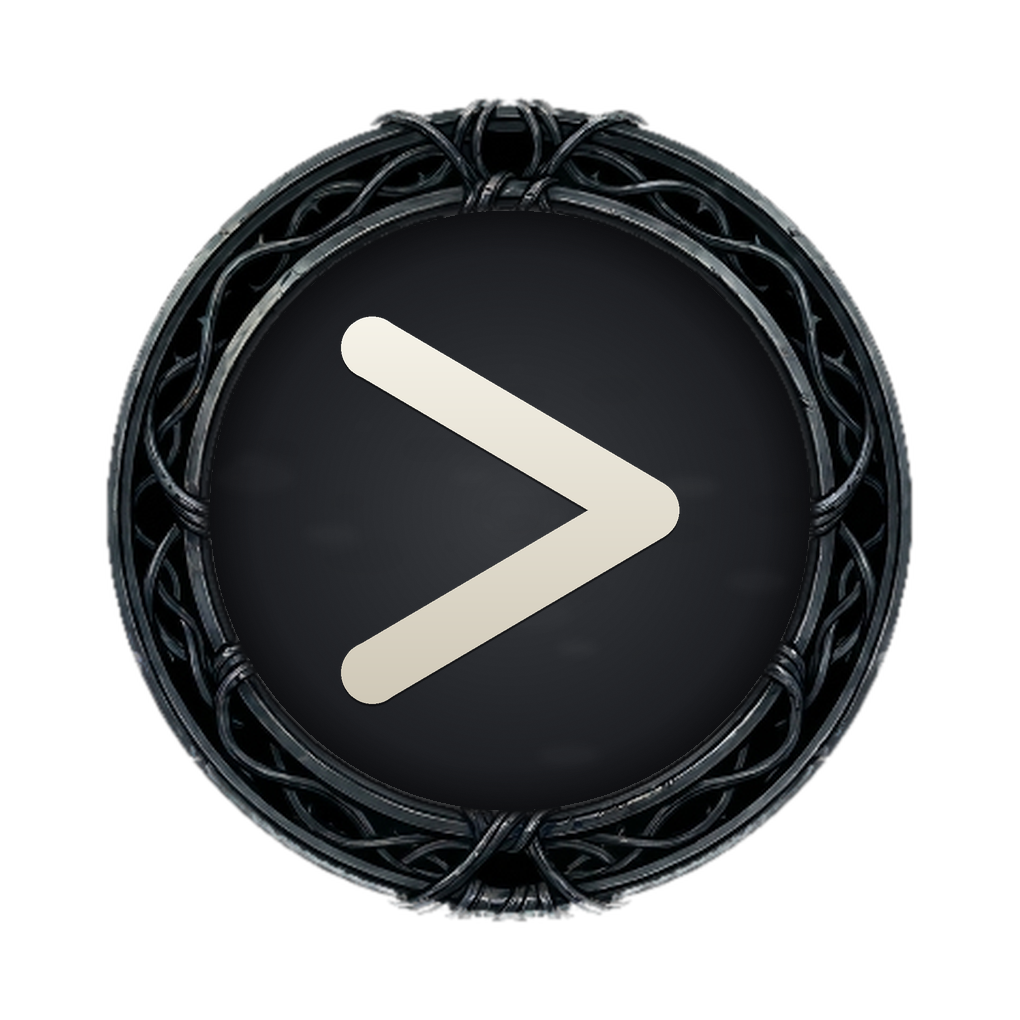
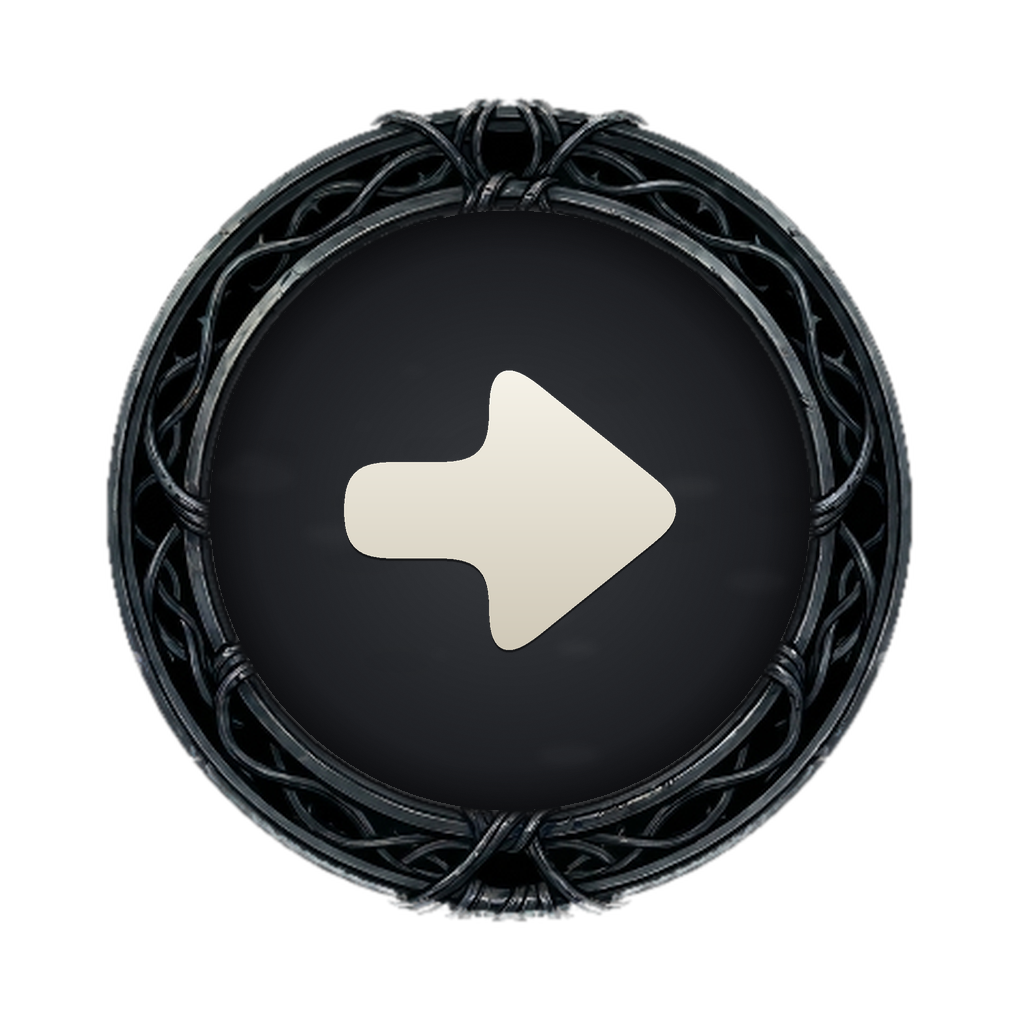
Bag D-pad art: solid block arrows with generously rounded corners, drawn per direction in make_bagskin.py

diff --git a/dm/ios/tools/make_bagskin.py b/dm/ios/tools/make_bagskin.py
@@ -2,7 +2,8 @@
 """Make the Silksong pad's bag-mode key art (dm/ios/padskin + padskin-badge).
 
 The bag layout (DmGamepad pad mode 4) has nine keys of its own: a D-pad of
-four round-frame keys with an ivory chevron each, the X / A / B face keys as
+four round-frame keys with a solid block arrow each (generously rounded
+corners), the X / A / B face keys as
 round-frame keys with a big serif letter, and L / R in the double-horn frame
 with a letter. Every key is composed from the shipping skin's own frames --
 bind.png for the round thorn frame, needolin.png for the double-horn frame --
@@ -16,8 +17,8 @@ Glyphs follow the badge bake's letter craft (tools in the skin workspace,
 bake_badges.py): Noto Serif, an ivory vertical gradient, a dark carved
 offset below, optically centred. Sizes are the approved bag-layout
 preview's: a face letter's ink stands 0.474 of the frame's diameter, an
-L / R letter's 0.314 of its frame's, a chevron spans 0.41 across and 0.288
-down its frame with a 0.079 stroke. The pressed state follows the shipping
+L / R letter's 0.314 of its frame's, a block arrow spans 0.41 across and
+0.434 down its frame before rounding. The pressed state follows the shipping
 set's rule, measured off bind / bind_p: the frame is untouched and the
 disc's interior takes a warm rose glow, strongest at the centre. The badge
 set is the plain set padded onto its 1020 canvas (the same +70 offset
@@ -114,12 +115,16 @@ def clean_base(frame_name, seed):
     return out
 
 
-def glyph_layer(draw_fn):
-    """Render a glyph at 2x with the carved shadow and ivory gradient, centred."""
+def glyph_layer(draw_fn, post=None):
+    """Render a glyph at 2x with the carved shadow and ivory gradient, centred.
+
+    post, when given, post-processes the drawn mask before centring (the
+    D-pad's block arrows blur and re-threshold theirs to round the corners)."""
     SS = 2
     S = CANVAS * SS
     mask = Image.new('L', (S, S), 0)
     draw_fn(ImageDraw.Draw(mask), SS)
+    if post: mask = post(mask)
     bbox = mask.getbbox()
     if bbox:   # optical centring on the ink, as bake_badges' glyph_mask
         dx = round(S / 2 - (bbox[0] + bbox[2]) / 2)
@@ -141,19 +146,22 @@ def glyph_layer(draw_fn):
     return lay.resize((CANVAS, CANVAS), Image.LANCZOS)
 
 
-def chevron_glyph(direction):
-    """direction: 0 left, 1 up, 2 down, 3 right (DmGamepad's triPath order)."""
-    W, H, ST = 325, 228, 62   # ink spans, in canvas px (0.41 / 0.288 / 0.079 of the frame's 807)
+def block_arrow_glyph(direction):
+    """A solid block arrow with generously rounded corners, drawn natively
+    per direction (the polygon's coordinates rotate, never a bitmap): an
+    arrowhead 330 wide over a shaft 96 wide, the whole 350 tall in canvas
+    px, its corners rounded by blurring the 2x mask and re-thresholding it
+    (the approved design sheet's heavier rounding)."""
+    UP = [(0, -175), (165, 30), (48, 30), (48, 175), (-48, 175), (-48, 30), (-165, 30)]
+    ROT = {'up': lambda x, y: (x, y), 'right': lambda x, y: (-y, x),
+           'down': lambda x, y: (-x, -y), 'left': lambda x, y: (y, -x)}
     def draw(md, SS):
         c = CANVAS * SS // 2
-        w, h, st = W * SS // 2, H * SS // 2, ST * SS
-        pts = {'up': [(0, -h), (-w, h), (w, h)], 'down': [(0, h), (-w, -h), (w, -h)],
-               'left': [(-w, 0), (h, -w), (h, w)], 'right': [(w, 0), (-h, -w), (-h, w)]}
-        (ax, ay), (bx, by), (ex, ey) = pts[direction]
-        md.line([c + bx, c + by, c + ax, c + ay, c + ex, c + ey], fill=255, width=st, joint='curve')   # one polyline, so the apex joins round instead of notching
-        for (gx, gy) in ((bx, by), (ex, ey)):
-            md.ellipse([c + gx - st // 2, c + gy - st // 2, c + gx + st // 2, c + gy + st // 2], fill=255)
-    return glyph_layer(draw)
+        rot = ROT[direction]
+        md.polygon([(c + rot(x, y)[0] * SS, c + rot(x, y)[1] * SS) for x, y in UP], fill=255)
+    def soften(mask):
+        return mask.filter(ImageFilter.GaussianBlur(38)).point(lambda v: 255 if v >= 128 else 0)
+    return glyph_layer(draw, soften)
 
 
 def letter_glyph(letter, ink_h):
@@ -199,7 +207,7 @@ def badge(art):
 def main():
     keys = []   # (name, frame, glyph layer)
     for name, direction in (('bagdup', 'up'), ('bagddown', 'down'), ('bagdleft', 'left'), ('bagdright', 'right')):
-        keys.append((name, 'bind', chevron_glyph(direction)))
+        keys.append((name, 'bind', block_arrow_glyph(direction)))
     for name, letter in (('bagx', 'X'), ('baga', 'A'), ('bagb', 'B')):
         keys.append((name, 'bind', letter_glyph(letter, 383)))   # ink height 0.474 of the frame's 807
     for name, letter in (('bagl', 'L'), ('bagr', 'R')):
